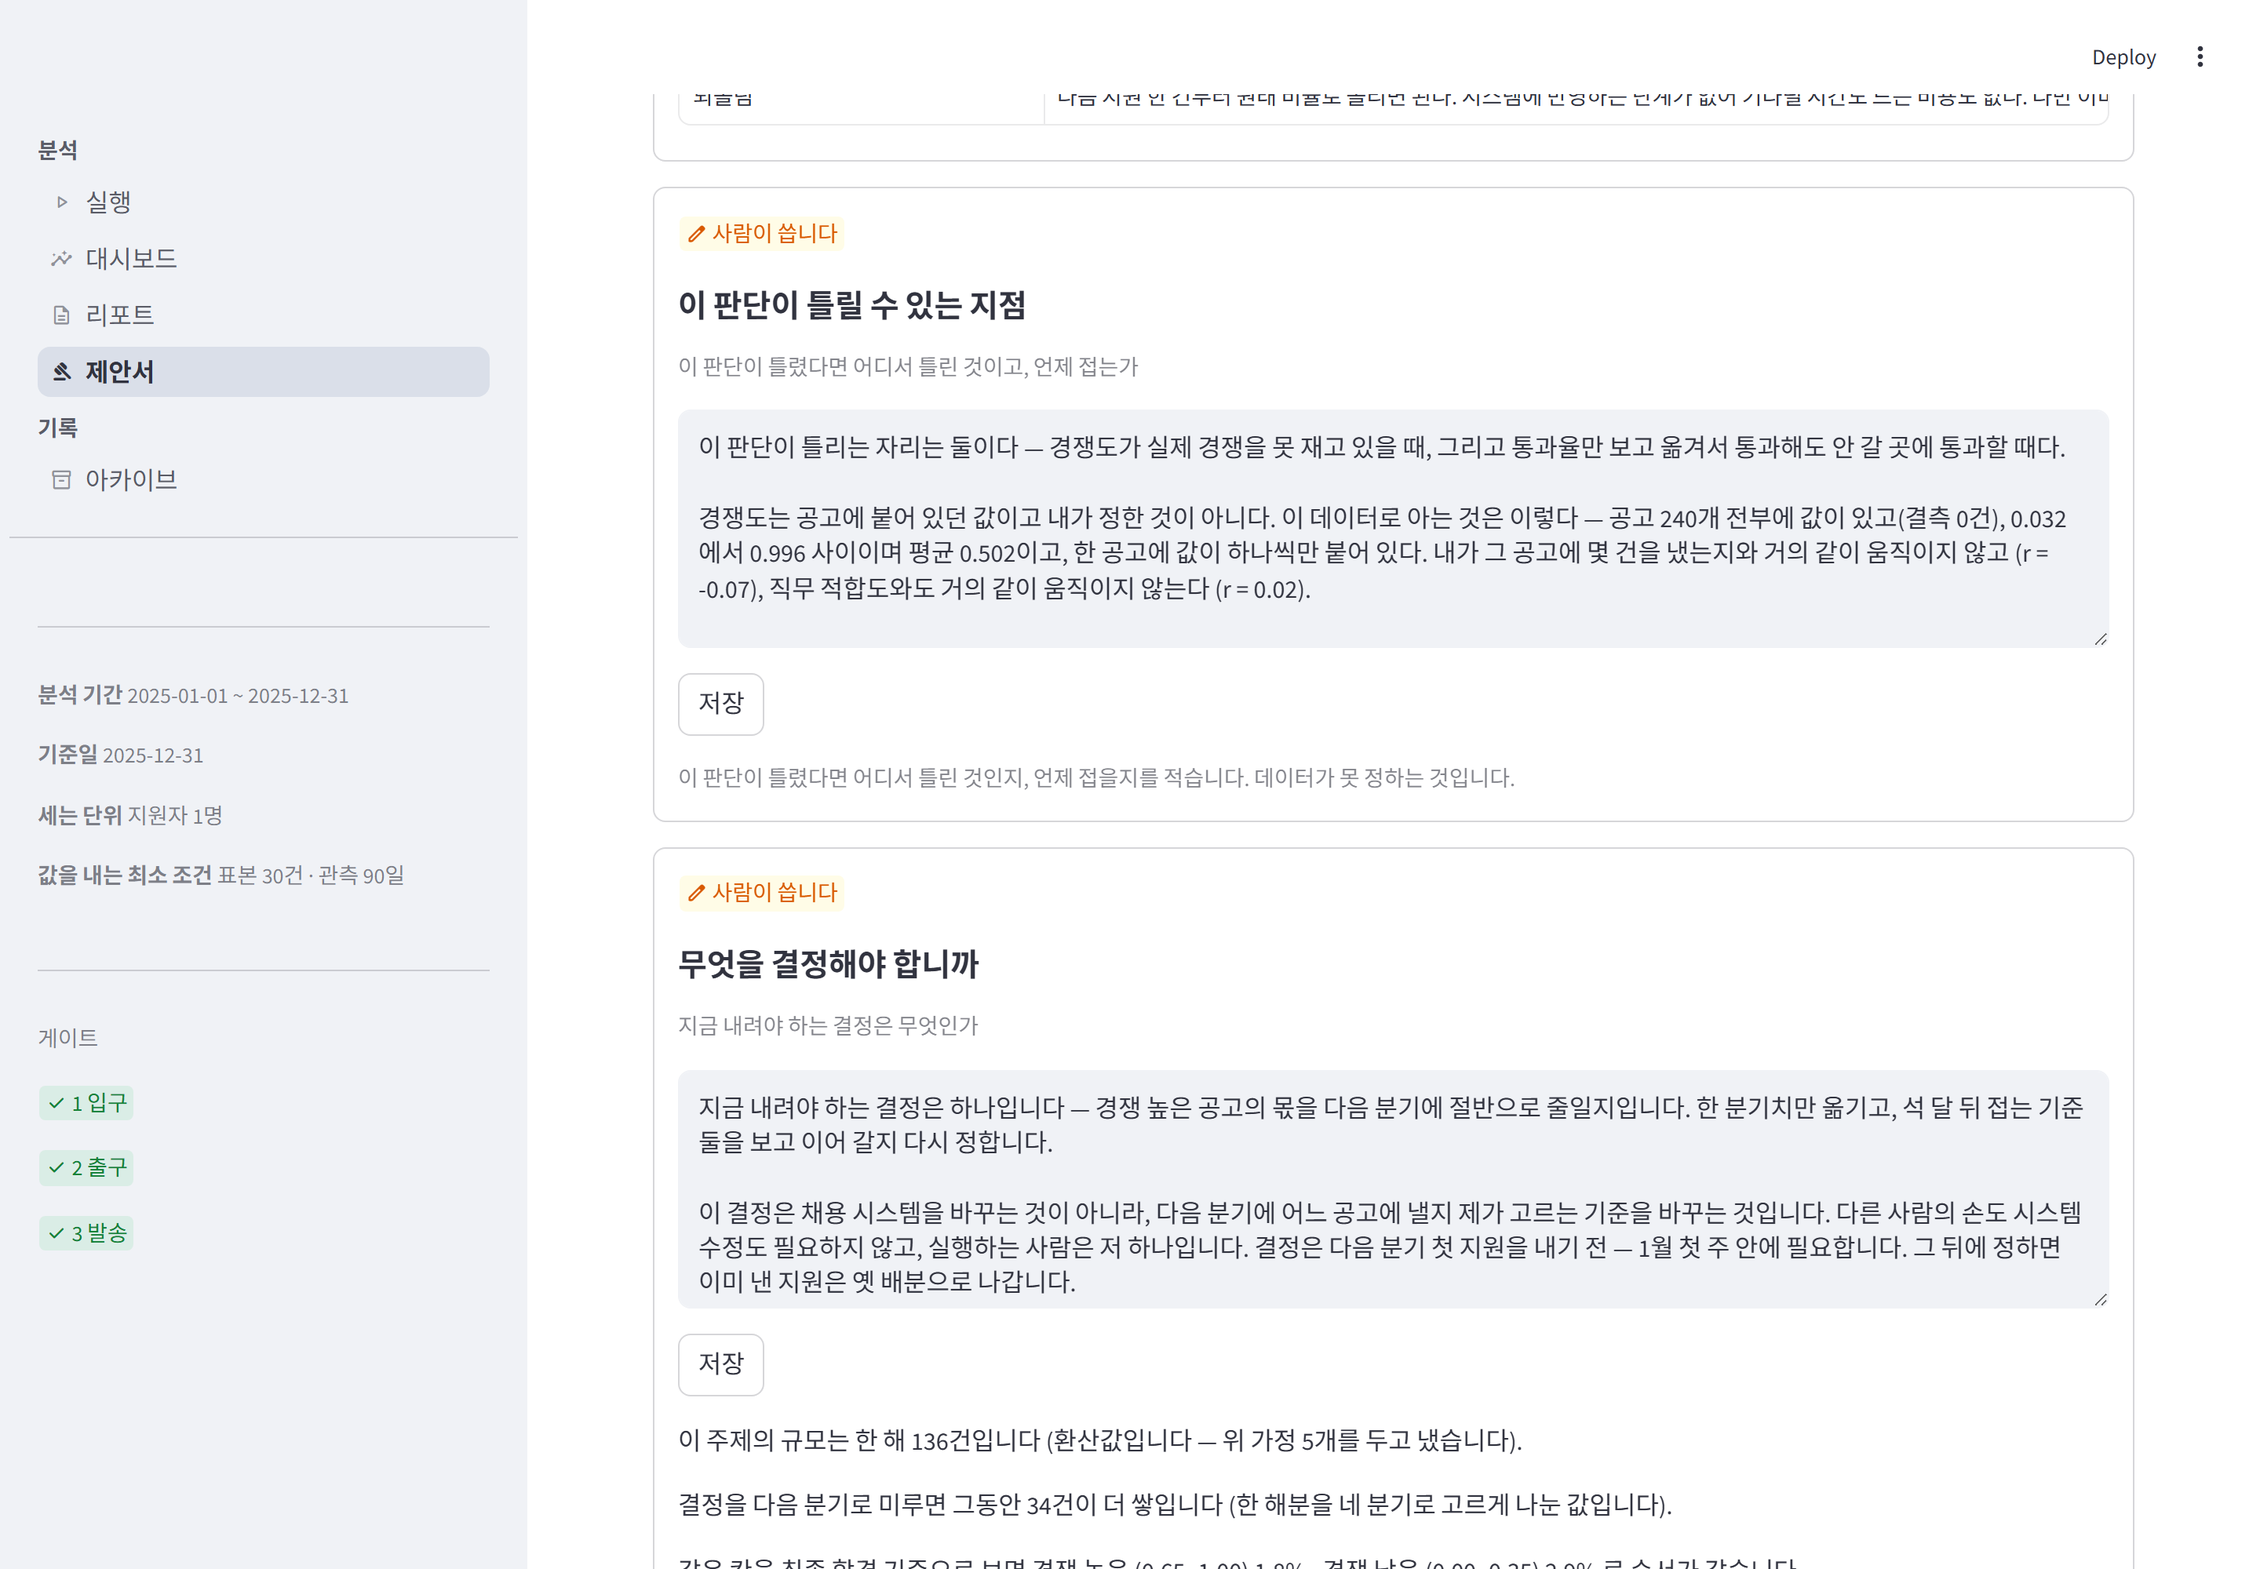
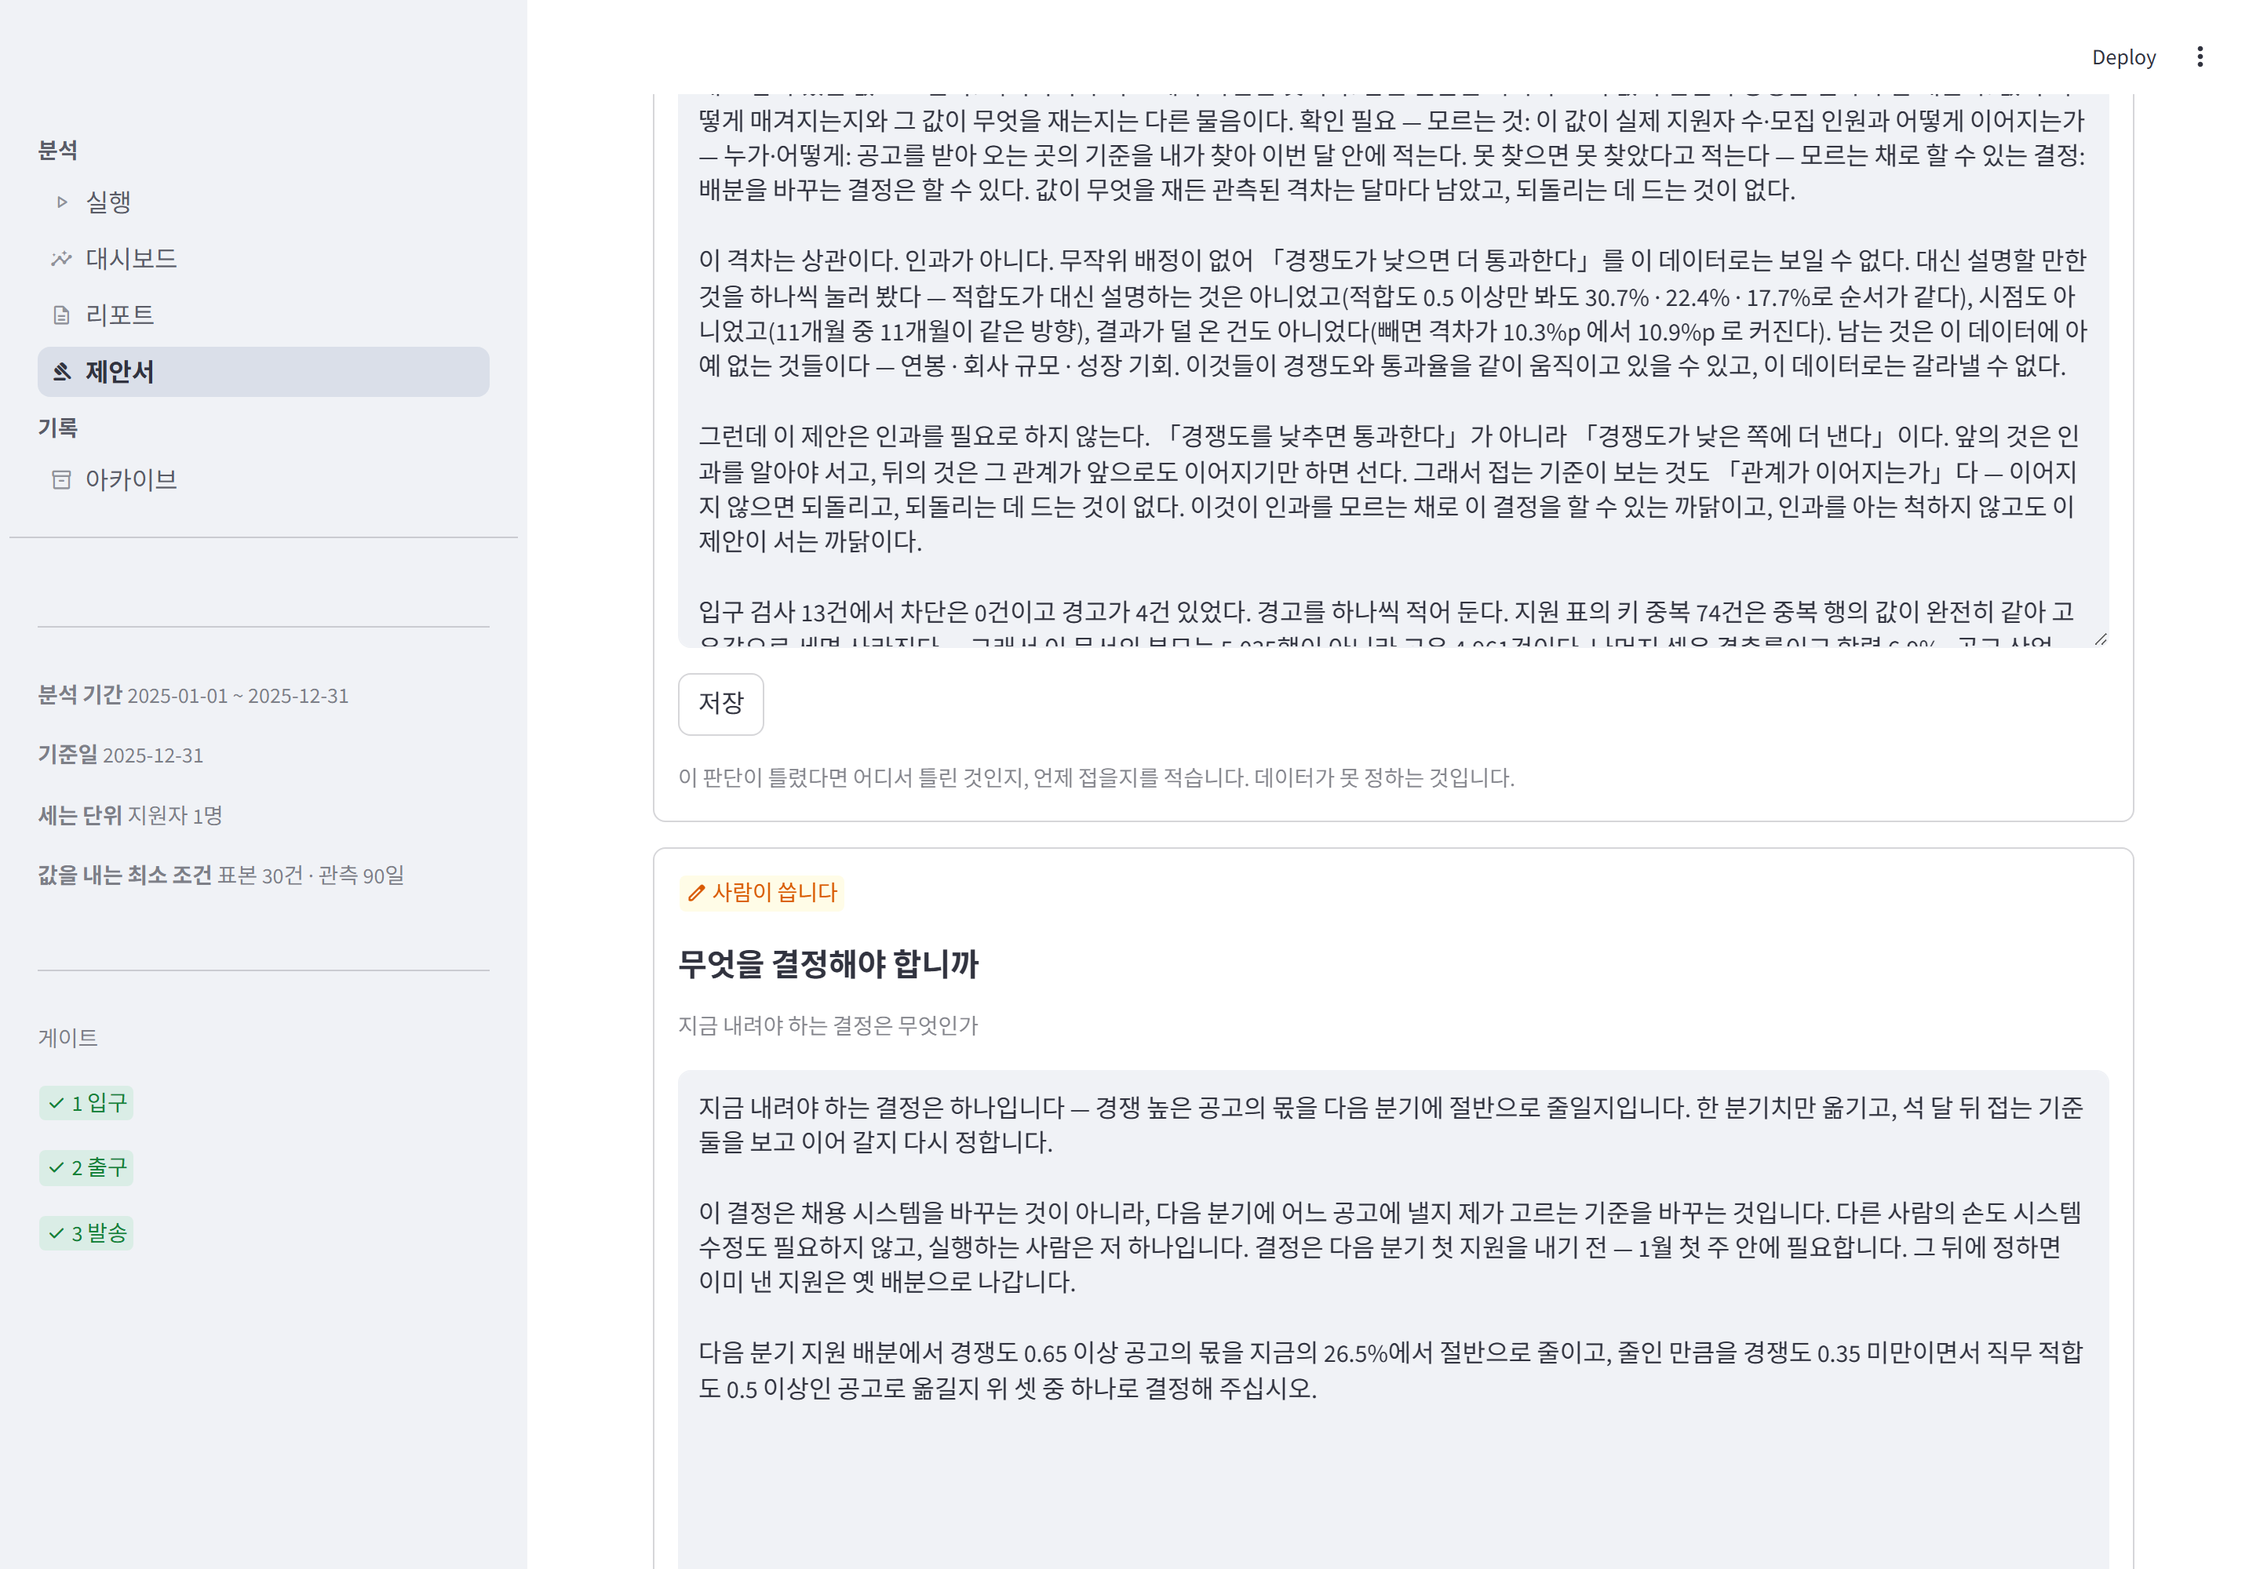
2바퀴 — 제목에 적어 둔 개수를 기계가 센다 · 글이 길어지면 입력창도 늘어난다
문서가 제목에 적어 둔 «개수»는 아무도 다시 안 센다. 표에 한 줄 더하면서
제목의 「열여덟」까지 고치는 사람은 없다. 실제로 하나가 어긋나 있었다
(★_채운자리 «20곳» → 표는 24행). 답변지의 run_all 도 12/12 에 멈춰 있었다.

w9d5_close.py 에 「문서가 제목에 적어 둔 개수를 다시 센다」 다섯 항목
- ★_채운자리 두 곳 · README 하나 · CLAUDE.md 하나 · 답변지의 run_all 단계 수
- 한글 수사를 읽는다. 앞뒤가 한글이면 낱말의 일부로 보고 안 읽는다 —
  이 울타리가 없을 때 «시작한다» 의 «한» 을 1 로 읽어 «규칙 스무 개» 를 1 이라 셌다
- ★ 일부러 틀리게 넣어 봤더니 **안 걸렸다.** 줄을 찾는 열쇠에 수가 들어 있어서,
  그 줄의 수를 바꾸면 줄을 못 찾고 옛 수를 그대로 썼다. 검사가 보는 줄이 바로
  그 검사가 못 보는 자리였다. 열쇠에서 수를 빼고, 못 찾으면 걸리게 했다.
  고친 뒤 둘 다 일부러 넣어 확인했다

화면 — 사람이 쓰는 절 입력창 높이를 글 길이에 맞춘다
- 150px 로 박아 두었는데 위험 절이 넉 문단에서 아홉 문단이 됐다. 요청 절에서는
  **결정을 요구하는 마지막 문단**이 스크롤 안에 숨어 있었다.
  화면에서 못 읽는 문장은 안 쓴 것과 같다

곁들여
- ★_채운자리 「조용히 틀리는 자리」에 둘 추가 (한 표가 여러 파일에 복사됨 ·
  제목에 적어 둔 개수) → 열여덟에서 스물
- README 구조 트리에 w9d5_close.py · 답변지 run_all 13/13

run_all 13/13 · w9d5_close 18/18 · 스크린샷 11장 다시 찍음

Changed region(s): [[0.2812, 0.062, 0.9375, 0.403], [0.3125, 0.837, 0.9062, 0.961], [0.3125, 0.992, 0.8125, 1.0]]

diff --git a/checks/w9d5_close.py b/checks/w9d5_close.py
@@ -48,18 +48,68 @@ GENERIC = ["퍼널", "전환율", "이탈"]
 
 # 본문에 «열세 곳» 처럼 적어 둔 수를 되읽는다. 숫자로 적으면 이 표가 없어도
 # 되지만, 읽는 글에 «13곳» 이라고 쓰지 않는다.
-_HAN = {"열": 10, "하나": 1, "둘": 2, "셋": 3, "넷": 4, "다섯": 5,
-        "여섯": 6, "일곱": 7, "여덟": 8, "아홉": 9,
-        "한": 1, "두": 2, "세": 3, "네": 4}
+_ONES = {"하나": 1, "둘": 2, "셋": 3, "넷": 4, "다섯": 5, "여섯": 6,
+         "일곱": 7, "여덟": 8, "아홉": 9,
+         "한": 1, "두": 2, "세": 3, "네": 4}
+_TENS = {"열": 10, "스물": 20, "스무": 20, "서른": 30, "마흔": 40, "쉰": 50}
+_ONE_RE = "|".join(sorted(_ONES, key=len, reverse=True))
+_TEN_RE = "|".join(sorted(_TENS, key=len, reverse=True))
+# ★ 앞뒤가 한글이면 낱말의 일부다. 이 울타리가 없을 때 «시작한다» 의 «한» 을
+#   1 로 읽어서 «규칙 스무 개» 를 1 이라고 세었다. 낱자로 세면 안 된다.
+_NUM = re.compile(
+    f"(?<![가-힣])(?:({_TEN_RE}))?(?:({_ONE_RE}))?(?![가-힣])")
+
+
+def han(text):
+    """«열세» · «스물넷» · «스무» 에서 수를 꺼낸다. 못 읽으면 -1.
+
+    **마지막 것**을 읽는다. 제목은 «… 열여덟» 처럼 수가 끝에 오고, 앞쪽에는
+    «한 번» 같은 낱말이 섞여 있을 수 있다.
+    """
+    got = -1
+    for m in _NUM.finditer(text):
+        if m.group(1) or m.group(2):
+            got = _TENS.get(m.group(1) or "", 0) + _ONES.get(m.group(2) or "", 0)
+    return got
 
 
 def _han(text):
-    """«열세 곳» 같은 말에서 수를 꺼낸다. 못 읽으면 -1."""
-    m = re.search(r"(열)?(하나|둘|셋|넷|다섯|여섯|일곱|여덟|아홉|한|두|세|네)?\s*곳",
-                  text)
-    if not m:
+    """«열세 곳» 에서 수를 꺼낸다 — 곳 앞의 것만."""
+    m = re.search(r"([가-힣]{1,4})\s*곳", text)
+    return han(m.group(1)) if m else -1
+
+
+def table_rows(doc, heading):
+    """머리글 다음에 처음 나오는 표의 몸통 행 수. 못 찾으면 -1."""
+    i = doc.find(heading)
+    if i < 0:
         return -1
-    return (10 if m.group(1) else 0) + _HAN.get(m.group(2) or "", 0)
+    for block in doc[i:].split("\n" + "\n"):
+        rows = [ln for ln in block.splitlines() if ln.strip().startswith("|")]
+        if len(rows) >= 3:
+            return len(rows) - 2          # 머리행 + 구분행을 뺀다
+    return -1
+
+
+def numbered_rows(doc):
+    """«| 12 |» 처럼 번호가 붙은 표 행의 수."""
+    return len(re.findall(r"^\| \d+ \|", doc, flags=re.M))
+
+
+# 문서가 **제목에** 적어 둔 개수. 제목은 아무도 다시 안 센다 — 표에 한 줄을
+# 더하면서 제목의 수까지 같이 고치는 사람은 없다. 실제로 셋이 어긋나 있었다.
+#
+# ★ 줄을 찾는 열쇠에 **수가 들어가면 안 된다.** 처음에는 «규칙 스무 개» 를
+#   통째로 열쇠로 썼더니, 그 줄의 수를 바꾸면 줄을 못 찾고 **옛 수를 그대로**
+#   썼다 — 일부러 틀리게 넣어 봤는데 안 걸렸다. 검사가 보는 줄이 바로 그
+#   검사가 못 보는 자리였다. 열쇠는 수를 뺀 앞부분이고, 못 찾으면 걸린다.
+#   (파일, 줄을 찾는 정규식, 무엇을 세나)
+COUNT_CLAIMS = [
+    (r"★_채운자리.md", r"^## 도메인을 바꿀 때 고쳐야 하는 자리", "번호행"),
+    (r"★_채운자리.md", r"^## 조용히 틀리는 자리", "표"),
+    (r"README.md", r"^## 이번 주에 실제로 걸린 것", "표"),
+    (r"CLAUDE.md", r"^규칙 \S+ 개\.", "불릿"),
+]
 
 
 results = []
@@ -155,6 +205,31 @@ def main():
     적힌 = _han(본문)
     ok(적힌 == 센값, "「적용」 절이 적어 둔 일반 용어 수가 맞다",
        f"적힌 {적힌} · 세어 보니 {센값}")
+    print("\n── 문서가 제목에 적어 둔 개수를 다시 센다 ──")
+    for path, key, what in COUNT_CLAIMS:
+        f = ROOT / path
+        이름 = f"{path} — 「{key.strip('^').lstrip('# ')[:24]}」"
+        if not f.exists():
+            ok(False, 이름, "파일이 없다")
+            continue
+        d = f.read_text(encoding="utf-8")
+        line = next((ln for ln in d.splitlines() if re.match(key, ln)), None)
+        if line is None:
+            ok(False, 이름, "그 줄을 못 찾았다 — 문서가 바뀌었으면 열쇠도 고친다")
+            continue
+        m = re.search(r"(\d+)", line)
+        적힌 = int(m.group(1)) if m else han(line.split(".")[0])
+        센값 = (numbered_rows(d) if what == "번호행"
+                else len(re.findall(r"^- ", d, flags=re.M)) if what == "불릿"
+                else table_rows(d, line))
+        ok(적힌 == 센값, 이름, f"적힌 {적힌} · 세어 보니 {센값}")
+
+    from checks import run_all as _ra
+    m = re.search(r"run_all\.py\s+(\d+)/(\d+)", ans)
+    ok(m and int(m.group(1)) == int(m.group(2)) == len(_ra.STEPS),
+       "답변지가 적어 둔 run_all 수가 맞다",
+       (m.group(0) if m else "못 찾음") + f" · 지금 {len(_ra.STEPS)}단계")
+
     거절 = ans.count("안 받아들인다")
     맞나 = f"안 고친 것이 {거절}건" in ans
     ok(맞나, "답변지가 적어 둔 «안 고친 것» 수가 맞다",

diff --git a/screens/5_proposal.py b/screens/5_proposal.py
@@ -63,8 +63,14 @@ def _section(sec, human, on_save):
                 st.write(md(line))
         else:
             key = sec["키"]
+            # ★ 높이를 150 으로 박아 두었더니, 위험 절이 넉 문단에서 아홉
+            #   문단으로 늘자 뒤쪽이 스크롤 안으로 숨었다. 요청 절에서는
+            #   **결정을 요구하는 마지막 문단**이 안 보였다 — 화면에서 못 읽는
+            #   문장은 안 쓴 것과 같다. 글 길이를 보고 정한다.
+            글 = human.get(key, "")
+            줄 = sum(max(1, len(ln) // 46 + 1) for ln in 글.splitlines()) or 1
             val = st.text_area(
-                sec["제목"], value=human.get(key, ""), height=150,
+                sec["제목"], value=글, height=min(560, max(150, 26 * 줄 + 40)),
                 key=f"pr_{key}", label_visibility="collapsed",
                 placeholder=sec.get("안내", ""))
             if st.button("저장", key=f"prs_{key}"):

diff --git a/★_채운자리.md b/★_채운자리.md
@@ -6,7 +6,7 @@
 그래서 "빈자리를 찾아 채웠다"가 아니라 **"어느 자리가 어느 날의 결정인지"** 를
 여기에 남긴다. 다음에 다른 주제로 옮길 때 고칠 곳이 곧 이 목록이다.
 
-## 도메인을 바꿀 때 고쳐야 하는 자리 — 20곳
+## 도메인을 바꿀 때 고쳐야 하는 자리 — 24곳
 
 | # | Day | 자리 | 무엇을 정하는가 |
 | --- | --- | --- | --- |
@@ -77,7 +77,7 @@
 `config.py` 를 다 채우고 "끝났다"고 판단하면 거기서 막힌다.
 위 13곳 중 12번(`metrics.AXES`)과 4번(`validate.REQUIRED`)이 그 자리다.
 
-## 조용히 틀리는 자리 열여덟
+## 조용히 틀리는 자리 스물
 
 에러가 나면 알아서 고치게 된다. 무서운 것은 **에러가 안 나고 숫자만 틀리는 것**이다.
 
@@ -99,6 +99,8 @@
 | **검사가 출력하다 죽음** | 검사는 다 돌았는데 «실패»로 보임 (cp949 콘솔) | 읽는 쪽이 아니라 **쓰는 쪽**을 고친다. 자식 프로세스까지 (`checks/_console.py`) |
 | **답변지와 문서가 갈림** | 「고쳤습니다」라고 적어 둔 것이 정작 문서에 없음 | 답변지는 같은 지적이 다시 왔을 때 읽는 파일이다. `checks/w9d4_answers.py` 가 «적어 둔 것이 문서에 있는가»를 본다 |
 | **항목 자체가 없음** | 누가 하는가 · 어느 표를 읽었는가처럼 **틀에 칸이 없는 것**. 빈칸을 세는 검사는 빈칸을 못 만들어서 검사 전부 통과해도 안 걸린다 | 검사로는 못 찾는다. **밖에서 읽는 사람**이 찾아 준다 — 그래서 판정을 밖에서 받는다 |
+| **한 표가 여러 파일에 복사됨** | 같은 비교표를 네 파일에 손으로 옮겨 적어 두었더니 두 값이 어긋났다. 계산이 한 곳에서 나와도 **옮겨 적은 값**은 한 곳이 아니다 | `checks/w9d1_verify.py` 가 조회로 안 나오는 값이 저장소 어디엔가 있는지 본다. 「원값」이라고 밝힌 줄만 예외다 |
+| **제목에 적어 둔 개수** | 표에 한 줄을 더하면서 제목의 「열여덟」까지 고치는 사람은 없다 | `checks/w9d5_close.py` 가 제목의 수를 되읽어 표 행과 견준다. **열쇠에 수를 넣으면 안 된다** — 그 줄의 수를 바꾸면 줄을 못 찾고 옛 수를 그대로 쓴다 |
 | **옛 규칙을 새 산출물에 안 대 봄** | 지난주 함정 목록이 지난주 것에만 걸려 있음 | 새 문서가 나올 때마다 옛 자를 다시 댄다. 오늘 넷을 대 보니 **넷 다 걸렸다** |
 | **종이 폭을 안 재 봄** | 화면은 멀쩡한데 A4 에서 오른쪽이 잘림 | 문자열 검사로도 화면으로도 안 보인다. `checks/doc_print.py` 가 종이 폭에 얹고 오른쪽 끝을 잰다 |
 

diff --git a/README.md b/README.md
@@ -133,6 +133,7 @@ my-report/
 │   └── pdf.py               한글 PDF (폰트는 찾아 쓴다 — 저장소에 안 넣는다)
 ├── checks/                  4일치 확인 + 앱점검 스크립트
 │   ├── _console.py          출력 인코딩을 지키는 자리 하나. 검사 전부가 맨 앞에서 부른다
+│   ├── w9d5_close.py        9주 마감 — 산출물이 다 있는가 · 적용 다섯 줄이 고른 것인가
 │   └── doc_print.py         제안서를 실제 브라우저로 A4 에 얹어 본다 (폭은 재 봐야 안다)
 ├── data/                    csv 4개 12,319행
 ├── .streamlit/config.toml   테마. 코드에 색을 박지 않는다

diff --git a/제안서_답변지.md b/제안서_답변지.md
@@ -176,7 +176,7 @@ B는 「변수 정의가 없으면 볼 필요가 없다」쪽이다. 둘 다 맞
 ## 6. 고친 뒤 다시 검사했다 (프롬프트 8)
 
 ```
-checks/run_all.py        12/12 통과  (Day4 검사 둘을 더했다)
+checks/run_all.py        13/13 통과  (Day4 둘 · Day5 하나를 더했다)
 checks/w9d4_submit.py     7/7   빈칸 0 · 수업 용어 0 · 결정 동사 있음 · 식별 정보 0
 checks/w9d4_answers.py   46/46  A·B 29건 + 손으로 쓴 숫자 13 + 답변지 자체 4
 checks/w9d3_proposal.py  40/40
